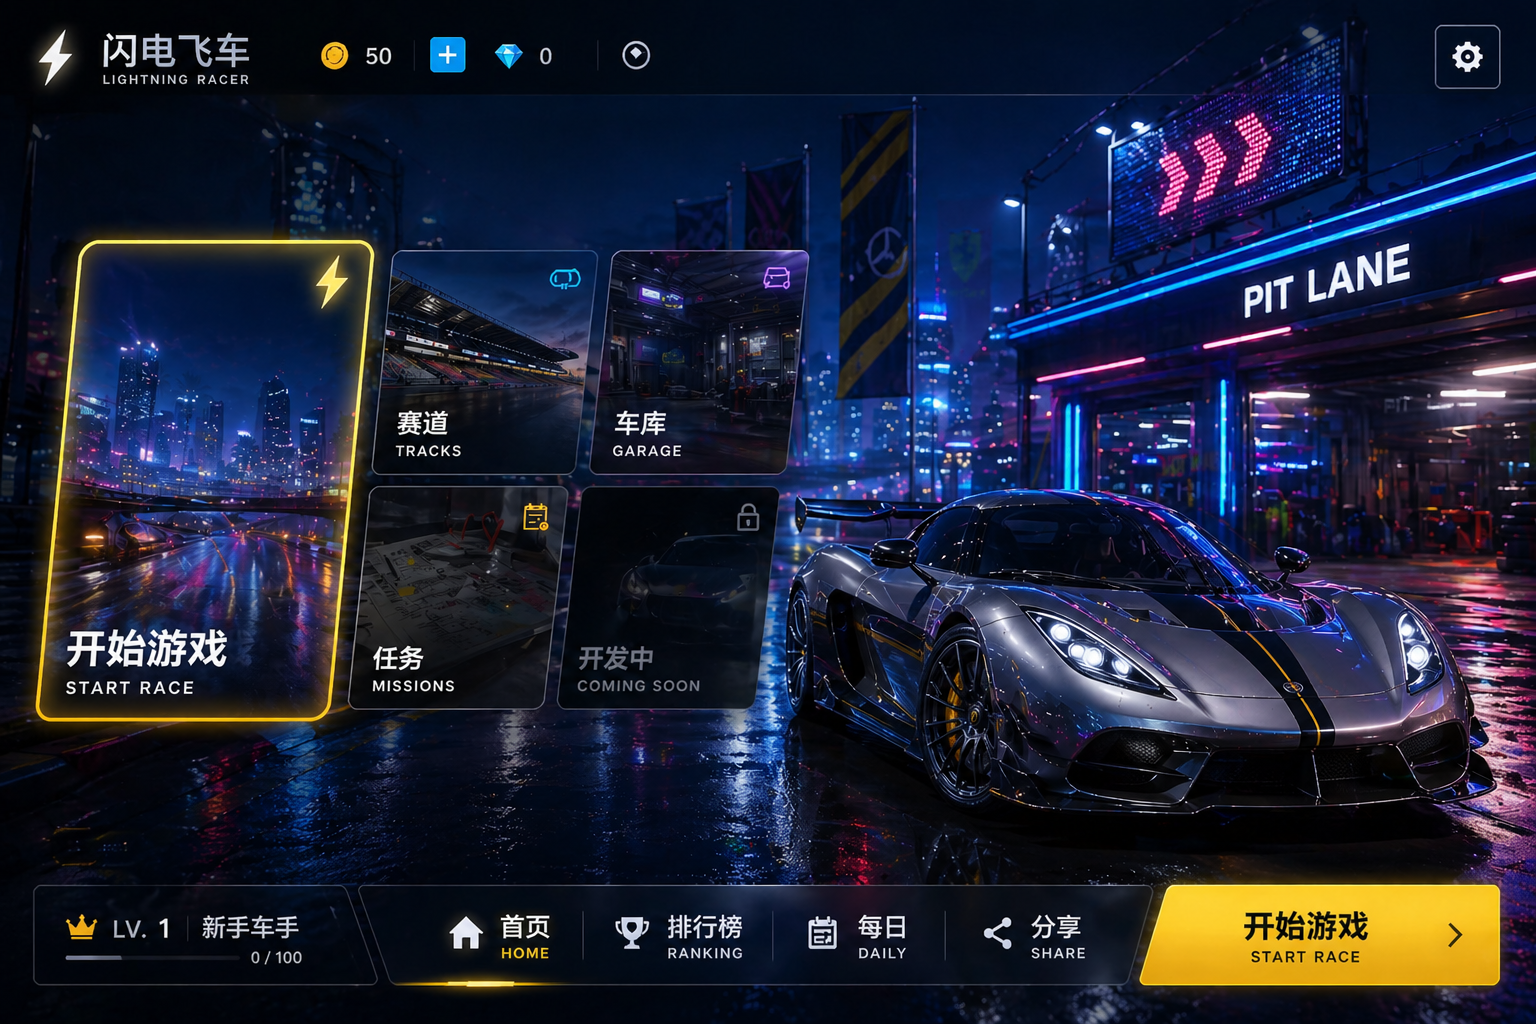
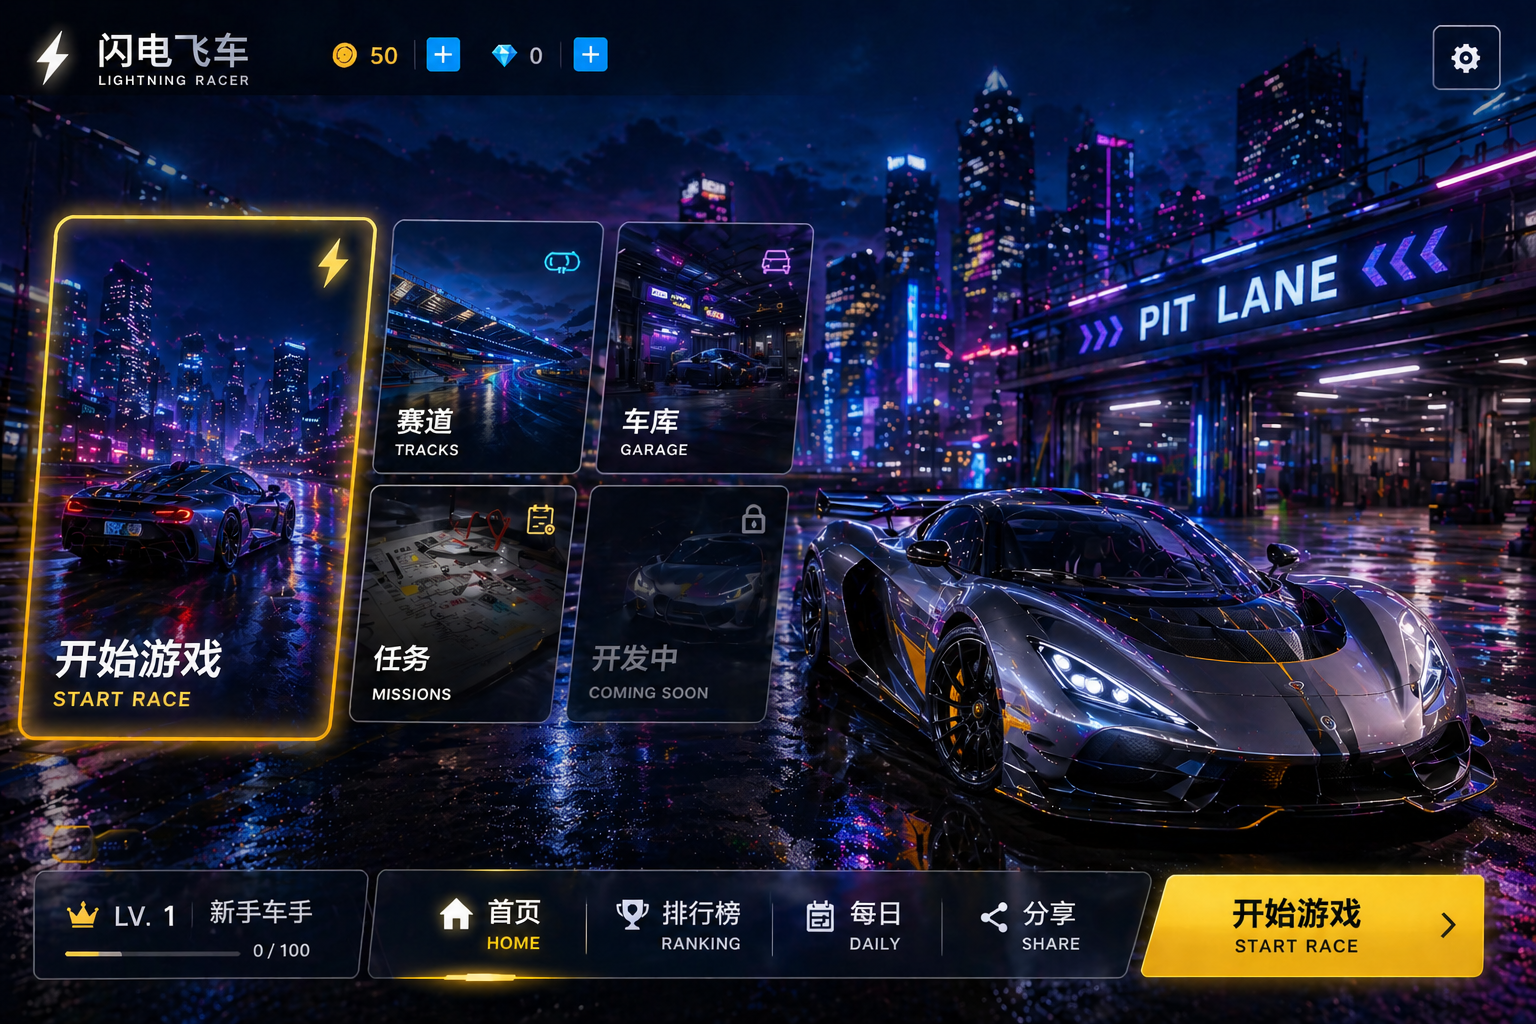
Show menu-bg.png as-is — drop blur patch + heavy vignette
Per the user: 直接按照原图那样.

- Removed .menu-blur-patch element + the local-blur CSS that masked
  the brand-logo regions. The image now renders at native brightness.
- Slimmed .menu-overlay to a tiny top/bottom vignette (25% alpha
  band, 0% in the centre 18-82% of the screen) — just enough so the
  top-bar and action-bar still have contrast against bright sections,
  without darkening the supercar / city.

Updated public/menu-bg.png (user re-saved a cleaner 2.3 MB version).

diff --git a/src/styles.css b/src/styles.css
@@ -256,42 +256,7 @@ body,
   /* slow drift for life */
   animation: cover-drift 24s ease-in-out infinite alternate;
 }
-/* Brand-logo blur patch — duplicate of the cover image with `filter: blur()`
-   applied, masked so it only shows over the Audi/Mercedes/Ferrari banner
-   strip and the HOT WHEELS sign. The masked-in pixels are the SAME image
-   pre-blurred, so they read as natural depth-of-field instead of dark
-   patches. Sits between .menu-cover and .menu-overlay. */
-.menu-blur-patch {
-  position: absolute;
-  inset: 0;
-  background-image: url("/menu-bg.png");
-  background-size: cover;
-  background-position: center;
-  background-repeat: no-repeat;
-  filter: blur(22px) saturate(1.05) brightness(0.85);
-  /* keep the patch in sync with the slow drift of the cover */
-  animation: cover-drift 24s ease-in-out infinite alternate;
-  /* mask: only show this blurred copy in the two logo zones */
-  -webkit-mask-image:
-    radial-gradient(ellipse 22% 9% at 50% 25%, #000 0%, #000 55%, transparent 100%),
-    radial-gradient(ellipse 14% 16% at 84% 26%, #000 0%, #000 55%, transparent 100%);
-  mask-image:
-    radial-gradient(ellipse 22% 9% at 50% 25%, #000 0%, #000 55%, transparent 100%),
-    radial-gradient(ellipse 14% 16% at 84% 26%, #000 0%, #000 55%, transparent 100%);
-  -webkit-mask-composite: source-over;
-  mask-composite: add;
-  pointer-events: none;
-}
-/* extra subtle horizontal haze over upper band so the whole top reads as
-   atmospheric fog, hiding any residual sharp edges from the blur patch */
-.menu-overlay::before {
-  content: "";
-  position: absolute;
-  inset: 0;
-  background:
-    linear-gradient(180deg, rgba(5,10,24,0.42) 0%, rgba(5,10,24,0.0) 50%);
-  pointer-events: none;
-}
+/* (no brand-logo masking — image shown as-is) */
 @keyframes cover-drift {
   0%   { transform: scale(1.04) translate(-0.4%, 0); }
   100% { transform: scale(1.04) translate(0.4%, -1%); }
@@ -300,10 +265,11 @@ body,
 .menu-overlay {
   position: absolute;
   inset: 0;
+  /* very light vignette so top-bar / action-bar still have contrast,
+     but the centre of the image stays at full brightness */
   background:
-    linear-gradient(180deg, rgba(5, 10, 24, 0.72) 0%, rgba(5, 10, 24, 0.28) 30%, rgba(5, 10, 24, 0.72) 100%),
-    radial-gradient(ellipse at 30% 40%, rgba(38, 214, 255, 0.12), transparent 50%),
-    radial-gradient(ellipse at 75% 60%, rgba(255, 211, 26, 0.08), transparent 50%);
+    linear-gradient(180deg, rgba(5, 10, 24, 0.25) 0%, rgba(5, 10, 24, 0) 18%, rgba(5, 10, 24, 0) 82%, rgba(5, 10, 24, 0.25) 100%);
+  pointer-events: none;
 }
 
 /* legacy hero title — no longer rendered (top-bar carries the logo) */

diff --git a/index.html b/index.html
@@ -46,7 +46,6 @@
       <section id="menu" class="screen menu-screen">
         <div class="menu-bg"></div>
         <div class="menu-cover" aria-hidden="true"></div>
-        <div class="menu-blur-patch" aria-hidden="true"></div>
         <div class="menu-overlay" aria-hidden="true"></div>
 
         <header class="menu-topbar">
